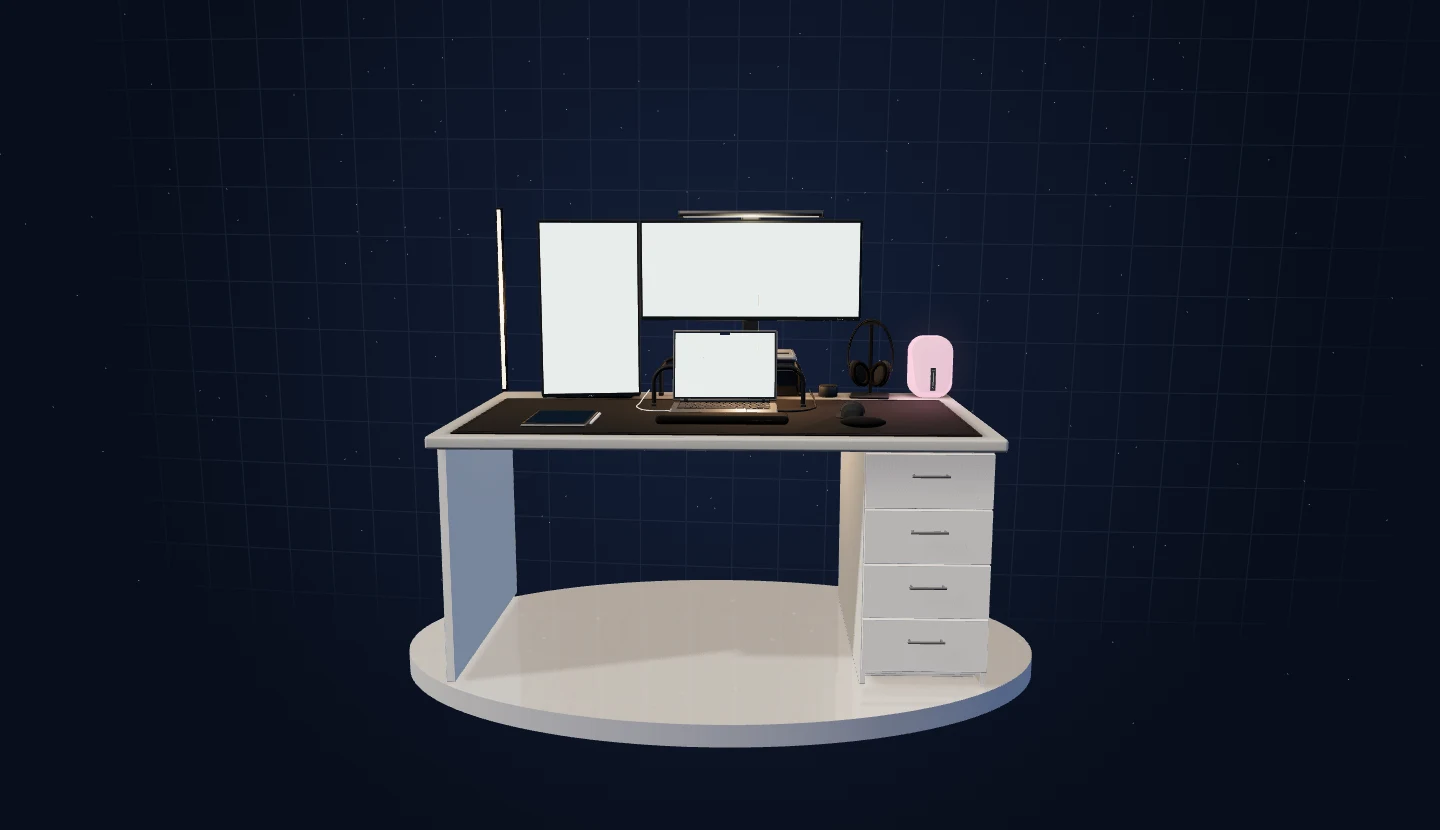
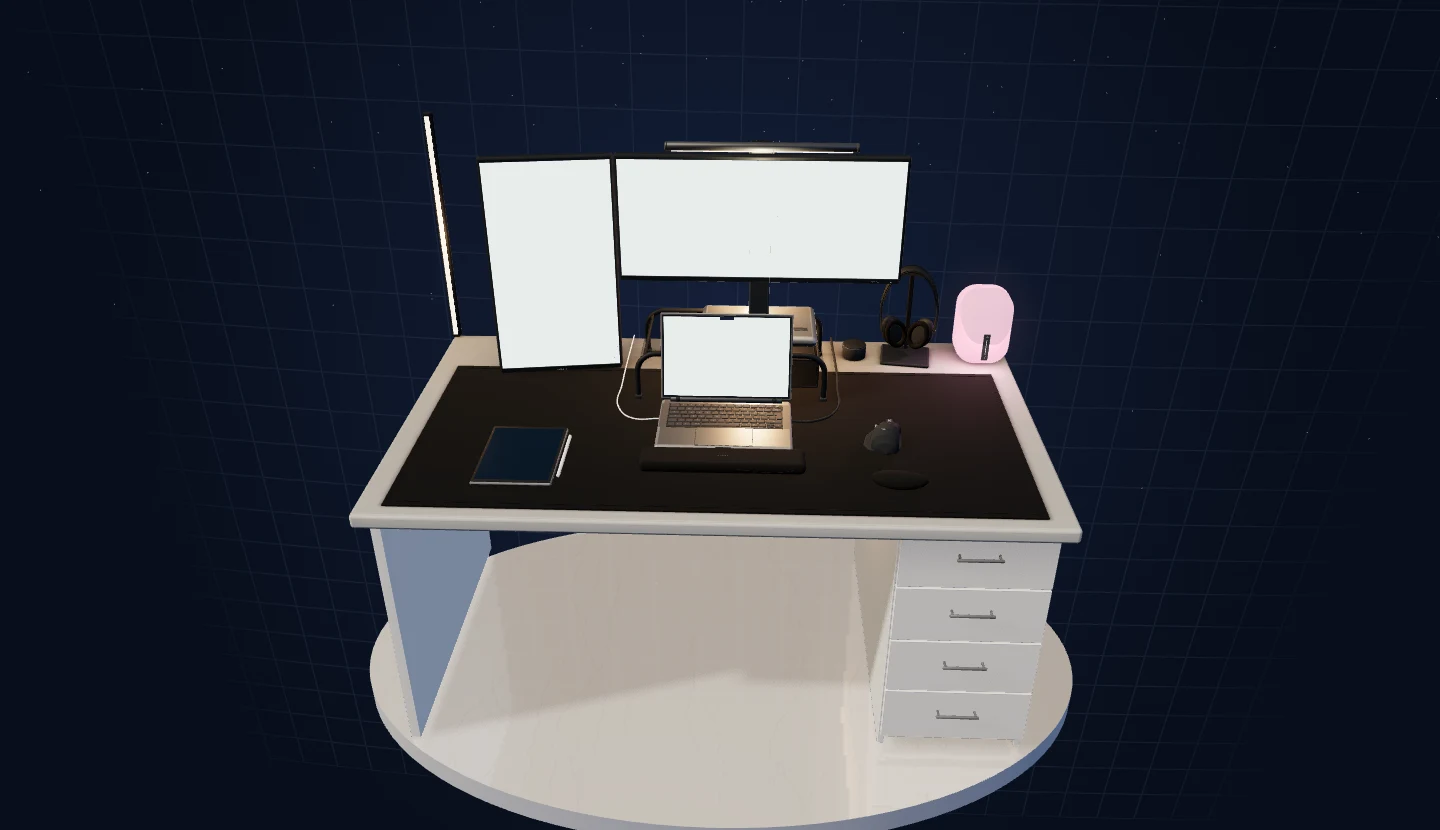
Reframe the final tabletop view

Changed region(s): [[0.2188, 0.1506, 0.75, 1.0]]

diff --git a/src/components/desk/journey-scene.tsx b/src/components/desk/journey-scene.tsx
@@ -8,7 +8,7 @@ import {
   useState,
   type RefObject,
 } from "react";
-import DeskPlatform, { PLATFORM_RADIUS_X } from "./platform";
+import DeskPlatform from "./platform";
 import CosmicEnvironment, { type CosmicPointer } from "./cosmic-environment";
 import DeskLighting from "./lighting";
 import { DeskObjectControls, useDeskInteractions } from "./interactions";
@@ -207,12 +207,13 @@ function Driver({
     const openingTarget = new Vector3(...opening.position);
     const openingDistance =
       (Math.min(opening.width / aspect, opening.height) * 0.92) / (2 * tangent);
-    const platformSpan = PLATFORM_RADIUS_X * 2 + 0.12;
+    const roomFrameSpan = contract.desk.width + 0.12;
     const roomDistance = Math.max(
-      3.05,
-      platformSpan / aspect / (2 * tangent),
-      1.7 / (2 * tangent),
+      2.15,
+      roomFrameSpan / aspect / (2 * tangent),
+      1.45 / (2 * tangent),
     );
+    const roomHeight = Math.min(2.8, Math.max(1.25, roomDistance * 0.58));
     return {
       opening: {
         target: openingTarget,
@@ -231,8 +232,8 @@ function Driver({
       portrait: closeup(contract.screens.PortraitScreen),
       macbook: closeup(contract.screens.MacBookScreen),
       room: {
-        target: new Vector3(0, -0.02, -0.1),
-        position: new Vector3(0.1, 0.48, roomDistance),
+        target: new Vector3(0, -0.02, -0.08),
+        position: new Vector3(0.08, roomHeight, roomDistance),
         fov: 43,
       },
     } satisfies Record<

diff --git a/src/components/desk/cosmic-environment.tsx b/src/components/desk/cosmic-environment.tsx
@@ -49,14 +49,12 @@ const gridFragmentShader = `
   varying float vDeformation;
 
   void main() {
-    vec2 cells = vUv * vec2(30.0, 18.0);
+    vec2 cells = vUv * vec2(30.0, 38.0);
     vec2 lines = abs(fract(cells - 0.5) - 0.5) / fwidth(cells);
     float grid = 1.0 - min(min(lines.x, lines.y), 1.0);
     vec2 edgeDistance = min(vUv, 1.0 - vUv);
-    float edgeFade = smoothstep(0.0, 0.16, edgeDistance.x)
-      * smoothstep(0.0, 0.2, edgeDistance.y);
-    float verticalFade = smoothstep(0.0, 0.18, vUv.y);
-    float alpha = grid * edgeFade * verticalFade * uReveal
+    float edgeFade = smoothstep(0.0, 0.16, edgeDistance.x);
+    float alpha = grid * edgeFade * uReveal
       * (0.13 + 0.07 * vDeformation);
 
     if (alpha < 0.003) discard;
@@ -150,10 +148,10 @@ export default function CosmicEnvironment({
       </points>
       <mesh
         name="Deformable grid curtain"
-        position={[0, 0.25, -2.8]}
+        position={[0, 0, -3]}
         rotation={[0.025, -0.035, -0.012]}
       >
-        <planeGeometry args={[8, 4.8, mobile ? 36 : 48, mobile ? 22 : 28]} />
+        <planeGeometry args={[8, 10, mobile ? 36 : 48, mobile ? 32 : 40]} />
         <shaderMaterial
           ref={gridMaterial}
           uniforms={uniforms}

diff --git a/docs/qa/room/README.md b/docs/qa/room/README.md
@@ -4,17 +4,17 @@
 
 The approved screen journey and 8.5-viewport native scroll timing are unchanged. The final camera now reveals the desk on a reflective elliptical marble platform in a quiet cosmic field. The former room walls and ceiling are removed. `ultrawide-room-final.png` records the previous room baseline; `cosmic-platform.png` is the current 1440 × 830 fallback source and review capture.
 
-The platform top remains at -0.694 m, immediately below the support contract's -0.692 m. Its 1.86 × 1.16 m ellipse leaves about 18 cm beside the 1.5 m desk and 14.5 cm beyond its 0.87 m depth. Its 6 cm side gives the floating surface a visible edge. The final camera moves from 3.45 m to 3.05 m, enlarging the desk while retaining the full platform. One point geometry contains the fixed depth-distributed stars. One curved grid plane draws procedural anti-aliased lines whose rectangular boundary fades before the mesh edge.
+The platform top remains at -0.694 m, immediately below the support contract's -0.692 m. Its 1.86 × 1.16 m ellipse leaves about 18 cm beside the 1.5 m desk and 14.5 cm beyond its 0.87 m depth. Its 6 cm side gives the floating surface a visible edge. The final desktop camera moves from 3.05 m to 2.15 m and rises to a downward angle, enlarging the tabletop and pushing the supports behind it. Narrow viewports fit around the desk rather than the platform, allowing a slight horizontal platform crop to keep the subject close. One point geometry contains the fixed depth-distributed stars. One curved grid plane draws procedural anti-aliased lines and extends beyond the viewport vertically; only its left and right boundaries fade.
 
 Fine-pointer movement updates refs and shader uniforms rather than React state. The grid is inactive at the opening and reading stops, responds only during the final exploration view, fades when the pointer reaches a screen or control, and stops invalidating frames after it settles. Touch devices keep the same scroll depth with reduced geometry and no pointer deformation. There is no elapsed-time shader input or idle animation.
 
 The fallback alt text in both languages describes the cosmic platform. Reduced motion, no JavaScript, model failure and WebGL context loss retain the complete HTML story. `npm run desk:capture-cosmic` reproduces the review PNG and public WebP from the local review route.
 
-The revised production poster capture measured **104 steady draw calls / 176,913 submitted triangles**, within the 130 / 210,000 budget. Its one-time environment and shadow setup peaked at 204 draw calls and is recorded separately from the settled frame. The public WebP remains 1440 × 830.
+The revised production poster capture measured **107 steady draw calls / 189,053 submitted triangles**, within the 130 / 210,000 budget. Its one-time environment and shadow setup peaked at 207 draw calls and is recorded separately from the settled frame. The public WebP remains 1440 × 830.
 
 The September 16 verification passes type generation, TypeScript, ESLint, all 40 unit tests, bilingual content validation and the production build. The full Playwright run completed 96 scenarios: **78 passed and 18 were skipped**. The skips are the intentional fine-pointer exclusion on mobile and the existing WebGL-gated mobile WebKit cases; WebKit still passed the localized static content, reduced-motion, no-JavaScript, failure fallback, navigation and accessibility paths. Physical iPhone Safari testing remains a release prerequisite.
 
-Final visual review covers the 1440 × 830 poster, a 2400 × 1000 ultrawide viewport and 390 × 844 plus 320 × 720 mobile viewports. The platform stays inside every final frame, the supports meet its top surface and the grid remains behind the screen content.
+Final visual review covers the 1440 × 830 poster, a 2400 × 1000 ultrawide viewport and 390 × 844 plus 320 × 720 mobile viewports. The close framing permits a small platform-edge crop while retaining its elliptical read; the supports meet its top surface and the grid remains behind the screen content while filling the viewport height.
 
 ## September 11 room baseline (historical)
 

diff --git a/docs/design.md b/docs/design.md
@@ -18,6 +18,6 @@ The approved room entrance supersedes the original two-column schematic hero. Th
 
 ## September 16: cosmic platform
 
-The room shell is replaced by a quiet cosmic setting while the approved screen journey, content and object interactions remain unchanged. The desk stands on a close-fitting 1.86 × 1.16 m elliptical marble platform with a 6 cm visible edge. A sparse star field and a low-contrast curved grid curtain appear as the camera withdraws; the palette is space `#080e1c`, distant atmosphere `#152039`, grid `#7286ad` and stars `#dce5f5`. The final camera sits at 3.05 m so the desk remains the dominant form.
+The room shell is replaced by a quiet cosmic setting while the approved screen journey, content and object interactions remain unchanged. The desk stands on a close-fitting 1.86 × 1.16 m elliptical marble platform with a 6 cm visible edge. A sparse star field and a low-contrast curved grid curtain appear as the camera withdraws; the curtain extends beyond the viewport vertically so the guide field has no visible top or bottom boundary. The palette is space `#080e1c`, distant atmosphere `#152039`, grid `#7286ad` and stars `#dce5f5`. The final desktop camera sits at 2.15 m with an elevated downward angle, keeping the tabletop and its objects dominant while the supports recede. Narrow viewports fit around the desk itself so the platform edge can crop slightly instead of pushing the subject into the distance.
 
 The grid is the one expressive effect. It bends locally under a fine pointer only in the final exploration view, ignores screens and controls, and returns to rest without a continuous animation loop. Touch retains scroll depth without deformation. Reduced motion, no JavaScript and WebGL failure use a capture of the same cosmic composition. The scene remains demand-rendered and keeps the existing 130 draw-call / 210,000 submitted-triangle steady-frame budget.

diff --git a/docs/scene-budget.md b/docs/scene-budget.md
@@ -24,4 +24,4 @@ The schematic above is retained as historical documentation only; it is no longe
 
 The desk journey now ends on a thin elliptical marble platform in a cosmic field. Room walls and ceiling were removed. The replacement adds one responsive segmented grid plane, one point geometry for all stars and one platform edge; it introduces no external texture, post-processing pass or continuous animation. The existing marble texture supplies the platform top.
 
-Desktop uses 2,688 grid triangles and 240 points; mobile uses 1,584 grid triangles and 130 points. Pointer values stay in refs and shader uniforms. Frames are invalidated during scroll, pointer movement and the approximately one-second return to rest, then stop. The established steady-frame ceiling remains 130 draw calls / 210,000 submitted triangles, including reflection and shadow passes. Current measurements and screenshots live in `docs/qa/room/README.md`.
+Desktop uses 3,840 grid triangles and 240 points; mobile uses 2,304 grid triangles and 130 points. Pointer values stay in refs and shader uniforms. Frames are invalidated during scroll, pointer movement and the approximately one-second return to rest, then stop. The established steady-frame ceiling remains 130 draw calls / 210,000 submitted triangles, including reflection and shadow passes. Current measurements and screenshots live in `docs/qa/room/README.md`.
